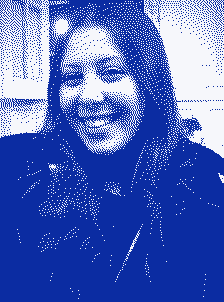
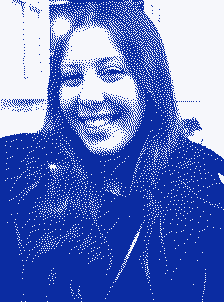
refine(leticia): foto mais clara e maior, coracao pixelart pulsando, texto curto em IBM VGA

diff --git a/src/system/ParaLeticia.tsx b/src/system/ParaLeticia.tsx
@@ -11,11 +11,14 @@ import { prefersReducedMotion } from "@/motion/prefs";
 // nunca e indexada.
 const SENHA = "leticia";
 
-const REGISTRO = [
-  "toda vez que você diz que tem orgulho de mim, alguma coisa em mim se endireita",
-  "nos dias difíceis, eu releio as suas palavras antes de continuar",
-  "você acredita em mim um pouco antes de eu acreditar, e isso muda tudo",
-];
+// Coracao pixelart no estilo pixelarticons (grid 24, blocos de 2, currentColor),
+// igual aos icones do RetroDesktop. Bate pela classe .coracao (menos em
+// reduced-motion).
+const IconeCoracao = ({ className }: { className?: string }) => (
+  <svg viewBox="0 0 24 24" fill="currentColor" className={className} aria-hidden>
+    <path d="M2 3h4v2h-4zM18 3h4v2h-4zM0 5h8v2h-8zM16 5h8v2h-8zM0 7h10v2h-10zM14 7h10v2h-10zM0 9h24v2h-24zM2 11h20v2h-20zM4 13h16v2h-16zM6 15h12v2h-12zM8 17h8v2h-8zM10 19h4v2h-4z" />
+  </svg>
+);
 
 const ParaLeticia = () => {
   const [aberta, setAberta] = useState(false);
@@ -104,15 +107,13 @@ const ParaLeticia = () => {
             alt="Letícia, sorrindo, em dither"
             width={224}
             height={302}
-            className="mx-auto h-40 w-auto shrink-0 sm:mx-0 sm:h-48"
+            className="mx-auto h-56 w-auto shrink-0 sm:mx-0 sm:h-72"
             style={{ imageRendering: "pixelated" }}
           />
           <div className="min-w-0 flex-1">
-            <div className="flex items-baseline gap-2">
+            <div className="flex items-center gap-2">
               <span className="type-dos text-xl md:text-2xl">@leticia</span>
-              <span className={semMovimento ? "text-paper" : "coracao text-paper"} aria-hidden>
-                ♡
-              </span>
+              <IconeCoracao className={`h-5 w-5 text-paper ${semMovimento ? "" : "coracao"}`} />
             </div>
             <p className="mt-1 text-sm text-paper/80">a pessoa que tem orgulho de mim</p>
 
@@ -136,39 +137,16 @@ const ParaLeticia = () => {
             <span className="text-paper/40">fixado</span>
           </div>
 
-          <div className="mt-5 space-y-4 font-sans text-[15px] leading-relaxed text-paper/90">
-            <p>Letícia,</p>
+          <div className="type-dos mt-6 space-y-5 text-[15px] leading-[1.7] text-paper/90 md:text-base">
+            <p>Amor,</p>
             <p>
-              Tem uma coisa que você faz sem medir o tamanho. Você diz que tem
-              orgulho de mim. E cada vez que você diz, o dia inteiro fica mais leve
-              de carregar.
+              Você é a melhor coisa que eu não precisei aprender a construir.
+              Sempre teu, Sempre minha, Sempre nosso.
             </p>
             <p>
-              Eu construí este esconderijo pra guardar um obrigado que não cabia
-              numa mensagem: obrigado por todas as suas palavras que demonstram
-              orgulho de mim. Elas me sustentam justo nos dias em que eu esqueço de
-              ter orgulho de mim mesmo.
+              te amo <span className={semMovimento ? "" : "caret"} />
             </p>
           </div>
-
-          {/* registro: reaproveita o "changelog" da referencia como carinho */}
-          <ul className="mt-6 space-y-2 border-t border-phosphor/25 pt-5 text-sm text-paper/80">
-            {REGISTRO.map((linha) => (
-              <li key={linha} className="flex gap-2">
-                <span className="text-phosphor" aria-hidden>
-                  •
-                </span>
-                <span>{linha}</span>
-              </li>
-            ))}
-          </ul>
-
-          <p className="mt-6 font-serif text-lg italic text-paper">
-            Você é a melhor coisa que eu não precisei aprender a construir.
-          </p>
-          <p className="mt-3 text-sm text-paper/70">
-            te amo <span className={semMovimento ? "" : "caret"} />
-          </p>
         </div>
 
         {/* rail de baixo, com os atalhos, igual a referencia */}
